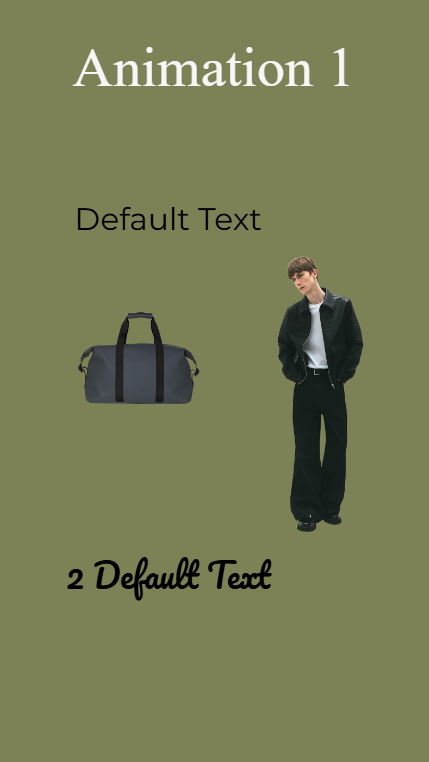
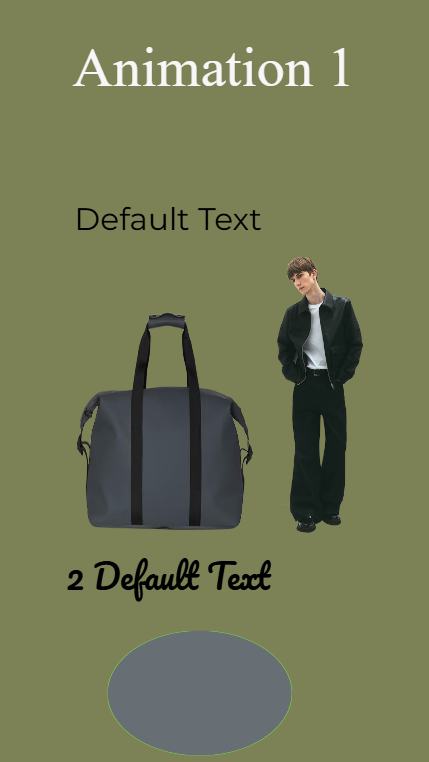
Drag and drop  image working now

diff --git a/AnimationProject/wwwroot/js/animations.js b/AnimationProject/wwwroot/js/animations.js
@@ -2965,39 +2965,90 @@ document.querySelectorAll("#imageContainer img").forEach(img => {
     });
 });
 
-// Allow dropping on canvas
-canvas.addEventListener("dragover", function (e) {
+//// Allow dropping on canvas
+//canvas.addEventListener("dragover", function (e) {
+//    e.preventDefault();
+//});
+canvas.addEventListener('dragover', e => {
     e.preventDefault();
+    e.dataTransfer.dropEffect = 'copy';
 });
-
 // When an image is dropped onto the canvas, add it to our images array
-canvas.addEventListener("drop", function (e) {
+////canvas.addEventListener("drop", function (e) {
+////    e.preventDefault();
+////    const src = e.dataTransfer.getData("text/plain");
+////    if (src) {
+////        // Create a new image object
+////        const img = new Image();
+////        img.src = src;
+////        img.onload = function () {
+////            // Default position is drop position; default size is half the natural size
+////            const newImgObj = {
+////                img: img,
+////                src: src, // keep the src path
+////                x: e.offsetX,
+////                y: e.offsetY,
+////                width: img.width / 4,
+////                height: img.height / 4,
+////                scaleX: 1,
+////                scaleY: 1,
+////                selected: false
+////            };
+////            images.push(newImgObj);
+////            drawCanvas('Common');
+////        };
+////    }
+////});
+canvas.addEventListener('drop', e => {
     e.preventDefault();
-    const src = e.dataTransfer.getData("text/plain");
-    if (src) {
-        // Create a new image object
-        const img = new Image();
-        img.src = src;
-        img.onload = function () {
-            // Default position is drop position; default size is half the natural size
-            const newImgObj = {
-                img: img,
-                src: src, // keep the src path
-                x: e.offsetX,
-                y: e.offsetY,
-                width: img.width / 4,
-                height: img.height / 4,
-                scaleX: 1,
-                scaleY: 1,
-                selected: false
-            };
-            images.push(newImgObj);
-            drawCanvas('Common');
-        };
+
+    let src = "";
+
+    // 1) Preferred: a real URI (e.g. dragging from another site)
+    // try text/uri-list first (for standards-compliant browsers)
+    if (e.dataTransfer.types.includes('text/uri-list')) {
+        src = e.dataTransfer.getData('text/uri-list').trim();
     }
+    // fallback: if plain text *looks* like an http URL
+    else {
+        const plain = e.dataTransfer.getData('text/plain').trim();
+        if (/^https?:\/\//i.test(plain)) {
+            src = plain;
+        }
+    }
+
+    // 2) If that fails, check for File objects (drag from Finder or Explorer)
+    if (!src && e.dataTransfer.files.length > 0) {
+        const file = e.dataTransfer.files[0];
+        if (file.type.startsWith('image/')) {
+            src = URL.createObjectURL(file);
+        }
+    }
+
+    // 3) Nothing valid? bail out
+    if (!src) return;
+
+    // 4) Finally load & push into your images array
+    const img = new Image();
+    img.onload = () => {
+        images.push({
+            img,
+            src,
+            x: e.offsetX,
+            y: e.offsetY,
+            width: img.naturalWidth / 4,
+            height: img.naturalHeight / 4,
+            scaleX: 1,
+            scaleY: 1,
+            opacity: 1,
+            selected: false
+        });
+        drawCanvas('Common');
+        // If you want, you can revoke object URLs later:
+        // if (src.startsWith('blob:')) URL.revokeObjectURL(src);
+    };
+    img.src = src;
 });
-
-
 function updateSelectedImageColorsOld(newFill, newStroke) {
     if (activeImage && activeImage.src && activeImage.src.endsWith('.svg')) {
         if (activeImage.originalSVG) {
